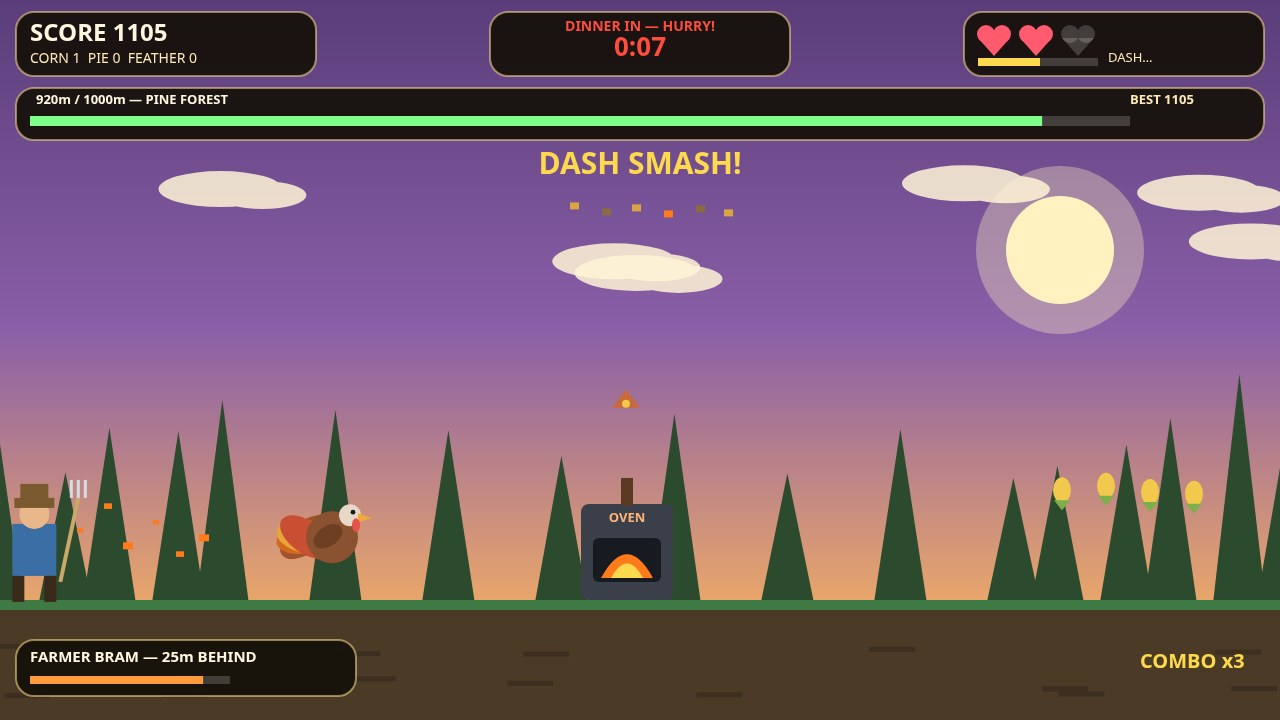
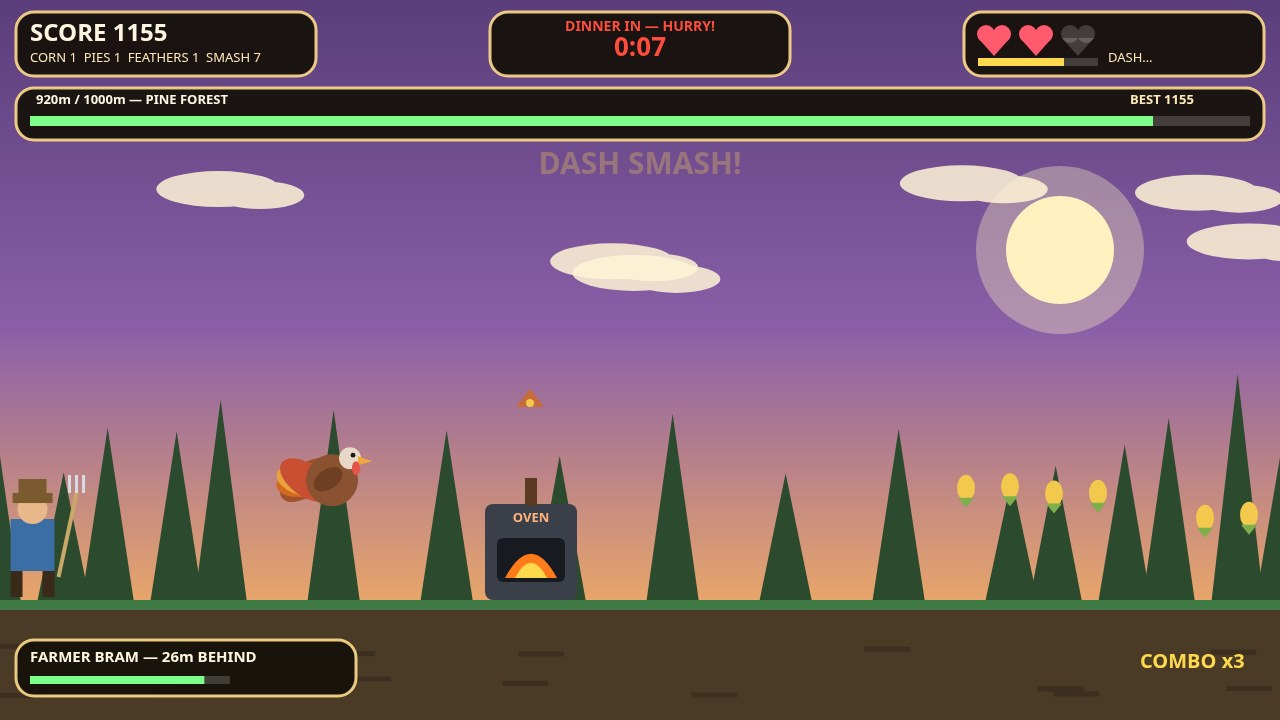
Add entry files

diff --git a/game/src/render.js b/game/src/render.js
@@ -53,8 +53,11 @@ export function createRenderer(canvas) {
     context.beginPath();
     context.roundRect(x, y, w, h, 18);
     context.fill();
-    context.strokeStyle = 'rgba(255, 220, 140, 0.55)';
-    context.lineWidth = 2;
+    // One frame style for every panel on every screen: a solid cream
+    // border that reads the same against the orange Barn Yard sky and
+    // the dark Pine Forest dusk.
+    context.strokeStyle = 'rgba(255, 220, 140, 0.9)';
+    context.lineWidth = 3;
     context.stroke();
   }
 
@@ -426,7 +429,10 @@ export function createRenderer(canvas) {
     // Top bar: score left, dinner countdown centre, lives + dash right.
     panel(16, 12, 300, 64);
     text(`SCORE ${Math.floor(state.score)}`, 30, 22, 24, PALETTE.text, 'left', true);
-    text(`CORN ${state.corn}  PIE ${state.pies}  FEATHER ${state.feathers}`, 30, 52, 14, PALETTE.muted);
+    // Plural names everywhere, matching the end screens, and a SMASH
+    // count so the +25-per-smash part of the score can be traced on the
+    // spot instead of guessed at afterwards.
+    text(`CORN ${state.corn}  PIES ${state.pies}  FEATHERS ${state.feathers}  SMASH ${state.smashes}`, 30, 52, 13, PALETTE.muted);
     const urgent = state.dinnerLeft <= 12;
     panel(490, 12, 300, 64);
     text(urgent ? 'DINNER IN — HURRY!' : 'DINNER IN', 640, 20, 14, urgent ? PALETTE.danger : PALETTE.muted, 'center', true);
@@ -459,43 +465,55 @@ export function createRenderer(canvas) {
     panel(16, 88, 1248, 52);
     text(`${Math.floor(state.distance)}m / ${GOAL_DISTANCE}m — ${ZONES[state.zone].name}`, 36, 94, 13, PALETTE.text, 'left', true);
     text(`BEST ${Math.max(best, Math.floor(state.score))}`, 1130, 94, 13, PALETTE.muted, 'left', true);
+    // The bar runs the full inner width of the panel (30 to 1250), so it
+    // ends flush with the panel's right edge instead of stopping short
+    // and leaving a dead strip under BEST.
     context.fillStyle = 'rgba(255,255,255,0.18)';
-    context.fillRect(30, 116, 1100, 10);
+    context.fillRect(30, 116, 1220, 10);
     context.fillStyle = '#7dff8a';
-    context.fillRect(30, 116, 1100 * Math.min(1, state.distance / GOAL_DISTANCE), 10);
-    // Farmer gap strip, bottom-left.
+    context.fillRect(30, 116, 1220 * Math.min(1, state.distance / GOAL_DISTANCE), 10);
+    // Farmer gap strip, bottom-left. The bar is the gap itself: full
+    // means far and safe, draining as Bram closes in — and the colour
+    // follows the danger, green while safe, amber as he closes, red
+    // when he is about to catch Tilly. An orange bar at 80%+ used to
+    // read as high danger while Tilly was still safe.
     panel(16, 640, 340, 56);
     const gapFrac = Math.min(1, state.farmerGap / 30);
     context.fillStyle = 'rgba(255,255,255,0.18)';
     context.fillRect(30, 676, 200, 8);
-    context.fillStyle = state.farmerGap < 12 ? PALETTE.danger : '#ff9a3d';
+    context.fillStyle = state.farmerGap < 12 ? PALETTE.danger : state.farmerGap < 18 ? '#ffd94d' : PALETTE.good;
     context.fillRect(30, 676, 200 * gapFrac, 8);
     text(`FARMER BRAM — ${Math.max(0, Math.floor(state.farmerGap))}m BEHIND`, 30, 650, 15, PALETTE.text, 'left', true);
     if (state.combo >= 3) text(`COMBO x${state.combo}`, 1140, 652, 20, '#ffd94d', 'left', true);
     // The smash banner only shows for a real smash (world.smashTimer),
     // never just for dashing — a dash that hits nothing earns no banner.
-    // A few fragments drift down under it while it is up.
+    // It fades as the dash recharges, so it is never at full strength
+    // while the dash is already half ready again; the only fragments
+    // are the real debris at the smashed obstacle, not confetti in the
+    // sky under the banner.
     if (state.smashTimer > 0) {
+      const dashFrac = state.player.dashCooldown <= 0 ? 1 : 1 - state.player.dashCooldown / PLAYER.dashCooldown;
+      context.save();
+      context.globalAlpha = Math.max(0, 1 - dashFrac);
       text('DASH SMASH!', 640, 150, 30, '#ffd94d', 'center', true);
-      const fall = (1.5 - state.smashTimer) * 90;
-      const frag = [[-70, 0, '#d9a441'], [-38, 6, '#8a6a42'], [-8, 2, '#d9a441'], [24, 8, '#ff7a1a'], [56, 3, '#8a6a42'], [84, 7, '#d9a441']];
-      for (const [dx, dy, color] of frag) {
-        context.fillStyle = color;
-        context.fillRect(640 + dx, 188 + dy + fall * 0.4, 9, 7);
-      }
+      context.restore();
     }
   }
 
   function drawTitle(state, best) {
-    panel(290, 150, 700, 330);
+    panel(290, 150, 700, 360);
     text('GOBBLE DASH', 640, 168, 64, '#ffd94d', 'center', true);
     text('Escape Before Dinner', 640, 238, 30, PALETTE.text, 'center', true);
     text('Tilly the turkey has 40 seconds to run 1000m to Freedom Forest', 640, 288, 18, PALETTE.muted, 'center');
     text('before Farmer Bram serves her for Thanksgiving dinner.', 640, 312, 18, PALETTE.muted, 'center');
     text('SPACE / CLICK LEFT — jump (x2)      SHIFT / CLICK RIGHT — dash', 640, 352, 17, PALETTE.text, 'center');
     text('DOWN — slide under the carving knife      Corn +10 · Pie +25 · Golden feather +50', 640, 378, 17, PALETTE.text, 'center');
-    text('Press SPACE or click to run!', 640, 420, 20, PALETTE.good, 'center', true);
-    if (best > 0) text(`BEST SCORE ${best}`, 640, 452, 15, PALETTE.muted, 'center');
+    // The smash is worth points too, and it is the other way the combo
+    // grows — written here so the score on the cover can be traced back
+    // to its parts instead of hiding +25 per smash.
+    text('Dash smash +25 · every smash raises your combo', 640, 404, 17, PALETTE.text, 'center');
+    text('Press SPACE or click to run!', 640, 438, 20, PALETTE.good, 'center', true);
+    if (best > 0) text(`BEST SCORE ${best}`, 640, 470, 15, PALETTE.muted, 'center');
   }
 
   function drawOver(state, best, escaped) {
@@ -505,10 +523,17 @@ export function createRenderer(canvas) {
       text('Tilly reached Freedom Forest — no dinner today!', 640, 238, 20, PALETTE.text, 'center');
     } else {
       text('CAUGHT!', 640, 168, 64, PALETTE.danger, 'center', true);
-      text(state.dinnerLeft <= 0 ? 'The dinner bell rang — Tilly is on the table.' : 'Farmer Bram caught Tilly at the fence.', 640, 238, 20, PALETTE.text, 'center');
+      // The caption says where she was caught, not what she was near:
+      // the fence sits far off to the right and Bram catches her from
+      // behind, so "at the fence" never matched the picture.
+      const zoneName = ZONES[state.zone].name.toLowerCase().replace(/\b\w/g, (c) => c.toUpperCase());
+      text(state.dinnerLeft <= 0 ? 'The dinner bell rang — Tilly is on the table.' : `Farmer Bram caught Tilly in the ${zoneName}.`, 640, 238, 20, PALETTE.text, 'center');
     }
     text(`SCORE ${Math.floor(state.score)}   DISTANCE ${Math.floor(state.distance)}m / ${GOAL_DISTANCE}m`, 640, 292, 22, PALETTE.text, 'center', true);
-    text(`CORN ${state.corn}   PIES ${state.pies}   FEATHERS ${state.feathers}   BEST COMBO x${state.bestCombo}`, 640, 328, 18, PALETTE.muted, 'center');
+    // A best combo of zero is no combo at all — the "x0" line is hidden
+    // instead of printed raw.
+    const comboPart = state.bestCombo > 0 ? `   BEST COMBO x${state.bestCombo}` : '';
+    text(`CORN ${state.corn}   PIES ${state.pies}   FEATHERS ${state.feathers}${comboPart}`, 640, 328, 18, PALETTE.muted, 'center');
     text(`BEST ${Math.max(best, Math.floor(state.score))}`, 640, 362, 18, PALETTE.muted, 'center');
     text('Press SPACE or click to run again!', 640, 420, 20, PALETTE.good, 'center', true);
   }

diff --git a/game/src/shots.js b/game/src/shots.js
@@ -9,7 +9,7 @@
 // scene runs an autopilot that never dodges anything, so it really does get
 // caught instead of escaping by accident.
 import { FIELD, PLAYER, STEP } from './config.js';
-import { EVENT_ESCAPED, EVENT_OVER, KIND_FENCE, KIND_HAY, KIND_KNIFE, KIND_MUD, KIND_OVEN } from './world.js';
+import { EVENT_ESCAPED, EVENT_OVER, KIND_FEATHER, KIND_FENCE, KIND_HAY, KIND_KNIFE, KIND_MUD, KIND_OVEN, KIND_PIE } from './world.js';
 import { SCREEN_ESCAPED, SCREEN_OVER, SCREEN_PLAY, SCREEN_TITLE } from './render.js';
 
 const TITLE_SECONDS = 5;
@@ -27,6 +27,20 @@ function nearestThreat(state) {
   return best;
 }
 
+function nearestValuable(state) {
+  // The nearest pie or golden feather ahead — the pickups worth jumping
+  // for. Corn is left to chance: it sits low and a jump for it would
+  // cost more than it pays.
+  const px = state.player.x;
+  let best = null;
+  for (const p of state.pickups) {
+    if (!p.active || (p.kind !== KIND_PIE && p.kind !== KIND_FEATHER)) continue;
+    const gap = p.x - px;
+    if (gap > 0 && gap < 380 && (best === null || gap < best.gap)) best = { pickup: p, gap };
+  }
+  return best;
+}
+
 function autopilot(state, skillful) {
   const player = state.player;
   const input = { jump: false, dash: false, slide: false };
@@ -34,7 +48,19 @@ function autopilot(state, skillful) {
   // would lift Tilly over the very obstacle the dash is meant to smash.
   if (player.dashing) return input;
   const threat = nearestThreat(state);
-  if (threat === null) return input;
+  if (threat === null) {
+    // No obstacle near: jump for a pie or golden feather floating above
+    // the ground line, double-jumping if it is still above Tilly and
+    // close. Only when nothing threatens — a jump for a pickup must
+    // never carry Tilly into an obstacle.
+    const val = nearestValuable(state);
+    if (val !== null) {
+      const p = val.pickup;
+      if (player.grounded && p.y < FIELD.groundY - 80) input.jump = true;
+      else if (!player.grounded && player.jumps < 2 && val.gap < 130 && p.y + p.height < player.y + 10) input.jump = true;
+    }
+    return input;
+  }
   const { obstacle: o, gap } = threat;
   const look = skillful ? 320 : 170;
   if (gap > look) return input;
@@ -51,7 +77,21 @@ function autopilot(state, skillful) {
   // smash banner and its points. The dash only lasts 0.22s, so the
   // autopilot holds its jump and waits until the obstacle is inside dash
   // range before dashing; dashing from far out would expire before
-  // contact and waste the dash.
+  // contact and waste the dash. One exception: an oven with a pie
+  // floating above it is jumped over instead of dashed through. The
+  // jump is a late one (gap < 170), so the arc passes through the pie
+  // rather than over it, and the arc is ridden without a double jump or
+  // an air dash — both would lift Tilly clear over the pie. Only once
+  // the pie is behind her (gap <= -40) does normal handling resume, to
+  // dodge the oven itself instead of chasing the pie.
+  const pieAboveOven = o.kind === KIND_OVEN && state.pickups.some((p) => p.active && p.kind === KIND_PIE && Math.abs(p.x - (o.x + 30)) < 20);
+  if (pieAboveOven) {
+    if (player.grounded) {
+      if (gap < 170) input.jump = true;
+      return input;
+    }
+    if (gap > -40) return input;
+  }
   if ((o.kind === KIND_HAY || o.kind === KIND_FENCE || o.kind === KIND_OVEN) && player.grounded && player.dashCooldown <= 0) {
     if (gap < 110) { input.dash = true; return input; }
     if (gap < 240) return input;
@@ -101,7 +141,9 @@ export function stageShot(name, world) {
       const p = world.state.player;
       if (world.state.over || world.state.escaped) break;
       if (world.state.distance > 920 || world.state.dinnerLeft < 4) break;
-      if (!p.grounded && world.state.smashTimer > 0 && world.state.combo >= 3) {
+      if (!p.grounded && world.state.smashTimer > 0 && world.state.combo >= 3 && p.dashCooldown > 0.3) {
+        // The dash was spent a moment ago, so the fading DASH SMASH!
+        // banner is still clearly visible in the frame.
         let overOne = false;
         for (const o of world.state.obstacles) {
           if (o.active && o.x < p.x + p.width + 40 && o.x + o.width > p.x - 20) { overOne = true; break; }

diff --git a/game/src/world.js b/game/src/world.js
@@ -48,12 +48,15 @@ export function createWorld(random) {
   }
   // Smash debris: small fragments flung off a dashed-through obstacle.
   // Fixed pool, fixed launch speeds — deterministic, no allocation in step.
+  // The launch is a low hop, not a skyward burst: fragments start at the
+  // obstacle's base on the ground and settle back onto the dirt within a
+  // fraction of a second, so they never hang in the sky above Tilly.
   const debris = [];
   for (let i = 0; i < 12; i += 1) {
     debris.push({ active: false, x: 0, y: 0, vx: 0, vy: 0, life: 0, size: 6, color: '#d9a441' });
   }
-  const DEBRIS_VX = [-160, -90, -40, 30, 90, 150];
-  const DEBRIS_VY = [-320, -380, -280, -340, -260, -300];
+  const DEBRIS_VX = [-120, -70, -30, 30, 70, 120];
+  const DEBRIS_VY = [-90, -140, -60, -120, -70, -100];
   const state = {
     player, obstacles, pickups, debris,
     score: 0, distance: 0, lives: LIVES, elapsed: 0, dinnerLeft: DINNER_SECONDS,
@@ -150,16 +153,18 @@ export function createWorld(random) {
   }
 
   function spawnDebris(o) {
-    // Six fragments in the smashed obstacle's own colours, flung up and out.
+    // Six fragments in the smashed obstacle's own colours, hopping off its
+    // base where it stood — on the ground, next to Tilly — and landing
+    // back on the dirt almost at once.
     const color = o.kind === KIND_FENCE ? '#8a6a42' : o.kind === KIND_OVEN ? '#ff7a1a' : o.kind === KIND_KNIFE ? '#d7dce4' : '#d9a441';
     let n = 0;
     for (const d of debris) {
       if (n >= 6) break;
       if (d.active) continue;
       d.active = true;
-      d.x = o.x + o.width / 2; d.y = o.y + o.height / 2;
+      d.x = o.x + o.width / 2; d.y = FIELD.groundY - 4;
       d.vx = DEBRIS_VX[n]; d.vy = DEBRIS_VY[n];
-      d.life = 0.8; d.size = 6 + (n % 3) * 2; d.color = color;
+      d.life = 0.6; d.size = 6 + (n % 3) * 2; d.color = color;
       n += 1;
     }
   }
@@ -196,8 +201,11 @@ export function createWorld(random) {
       d.x += d.vx * dt;
       d.y += d.vy * dt;
       d.vy += 1400 * dt;
+      // A fragment that reaches the dirt stays on it instead of sinking
+      // or bouncing — it is ground rubble, not a sky object.
+      if (d.y >= FIELD.groundY - d.size / 2) { d.y = FIELD.groundY - d.size / 2; d.vy = 0; }
       d.life -= dt;
-      if (d.life <= 0 || d.y > FIELD.groundY + 6) d.active = false;
+      if (d.life <= 0) d.active = false;
     }
 
     // Farmer Bram: clean running slowly rebuilds the gap; dashing gains more.
